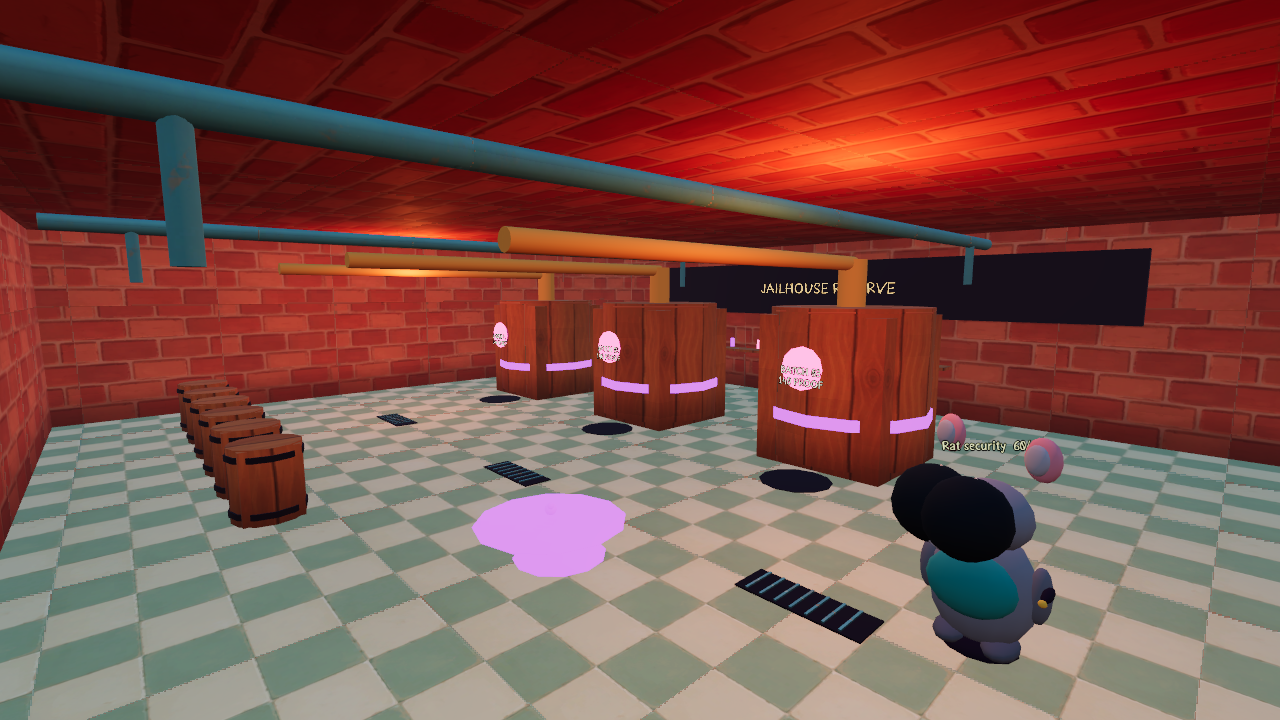
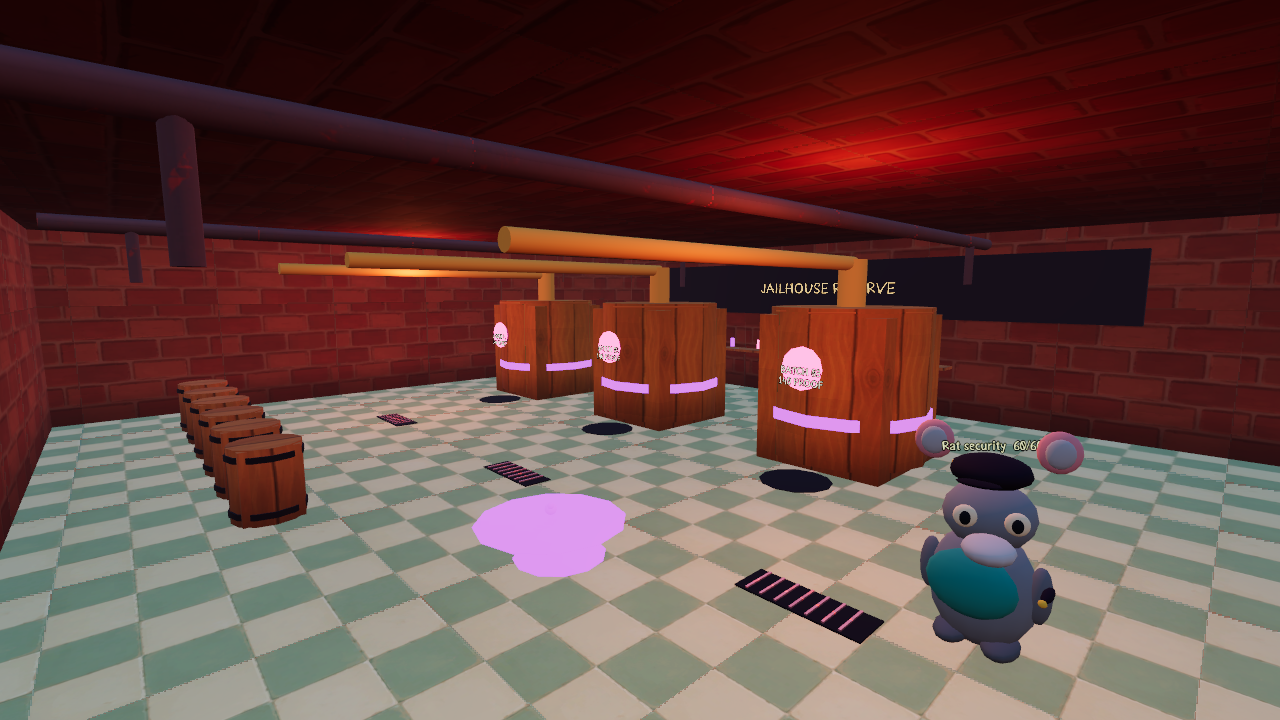
Fix five implementation bugs from the motion pass review
Guard hats, eyes and pupils were being posed with absolute values that
destroyed their built transforms: hats dropped to the body origin when
the stun pop settled (base positions are now captured and the pop adds
on top), and eye openness and anger scaled eye/pupil meshes toward
absolute ~1.0 instead of multiplying their built scale (base scales are
stored and multiplied now). The Big Cheese moustache sat at its old
model-space position inside the head rig, floating above his face; it
is converted to head-local coordinates. Charge dust passed a global
position into a parent-local Vfx offset, so puffs spawned far from the
charger; it now uses a small local offset.

The painted-atlas materials also collapsed roles that share a texture
quadrant into one look, because tint was chosen per quadrant. Tint is
now derived per role from its palette hex relative to each quadrant's
reference role, so mold reads green on the brick quadrant, steel reads
neutral grey on the teal one, and each painted role keeps its own art
direction without any new assets.

diff --git a/scripts/level/build_heist_world.py b/scripts/level/build_heist_world.py
@@ -48,6 +48,23 @@ KIND_TINT = {
     3: (0.82, 1.02, 1.08),
     4: (1.0, 1.0, 1.0),
 }
+# The atlas quadrant supplies the surface PATTERN; the palette role supplies
+# the COLOR. With its tuned KIND_TINT each quadrant reads as its reference
+# role below, so any other role on that quadrant gets a tint derived from its
+# own palette hex relative to the reference - mold reads green on the brick
+# quadrant, steel reads neutral on the teal one, and so on. Texture family and
+# art-direction color are separate axes.
+KIND_REFERENCE = {0: 'brick_rose', 1: 'tile_pale', 2: 'wood_warm', 3: 'turquoise', 4: 'asphalt'}
+
+def role_tint(role, kind):
+    base = KIND_TINT[kind]
+    ref = KIND_REFERENCE.get(kind)
+    if ref is None or ref == role or ref not in PALETTE or role not in PALETTE:
+        return base
+    def rgb(hex_color):
+        return tuple(int(hex_color[i:i+2], 16)/255 for i in (0, 2, 4))
+    role_rgb, ref_rgb = rgb(PALETTE[role]), rgb(PALETTE[ref])
+    return tuple(base[i]*role_rgb[i]/ref_rgb[i] for i in range(3))
 # Legacy hex -> role. Keeps every existing call site working while recoloring.
 LEGACY = {
     # painted surfaces (kind 0-4)
@@ -124,7 +141,7 @@ class Scene:
         kind = None if glow else KIND_ROLES.get(resolved)
         if kind is not None:
             if key not in self.materials:
-                tint = ', '.join(str(round(v, 3)) for v in KIND_TINT[kind])
+                tint = ', '.join(str(round(v, 3)) for v in role_tint(resolved, kind))
                 self.materials[key] = self.resource('ShaderMaterial', 'shader = ExtResource("surface")\nshader_parameter/atlas = ExtResource("atlas")\nshader_parameter/surface_kind = %d\nshader_parameter/tile_size = 4.0\nshader_parameter/tint = Color(%s, 1)' % (kind, tint))
             return self.materials[key]
         if key not in self.materials:
